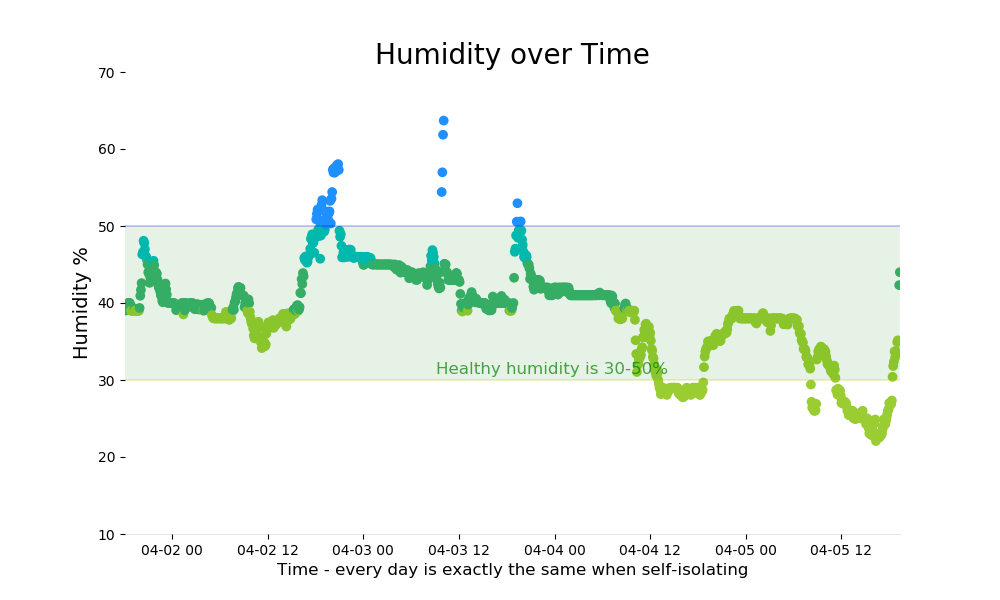
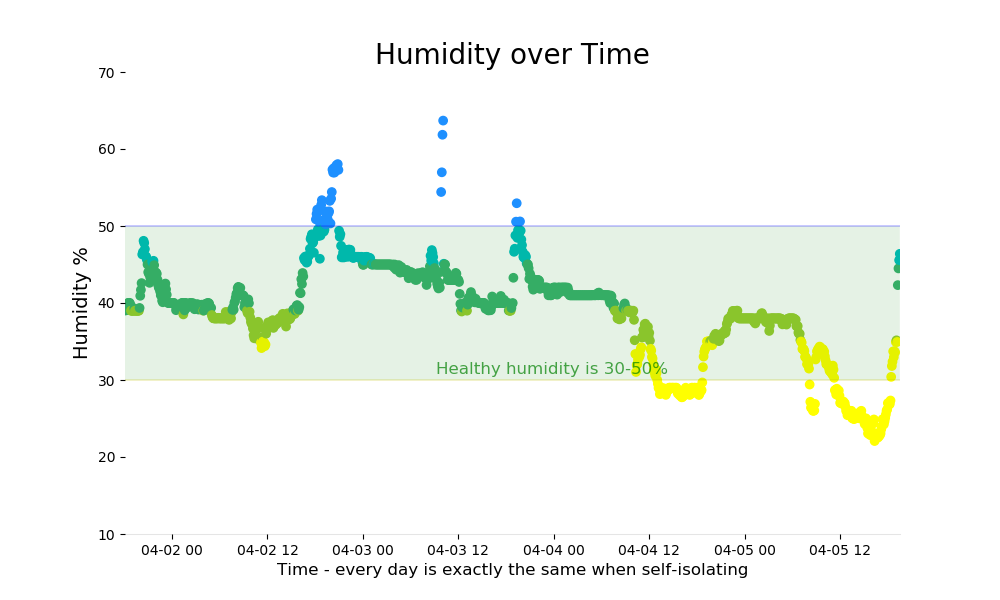
Added yellow colour.

diff --git a/humidity/webapp/Humidity.py b/humidity/webapp/Humidity.py
@@ -34,7 +34,8 @@ def generate_image():
   import numpy as np
   colors = np.where(df["humidity"] > 50, 'dodgerblue', 
          (np.where(df["humidity"] > 45, 'c',
-                   (np.where(df["humidity"] > 39, 'mediumseagreen', 'yellowgreen')))))
+                   (np.where(df["humidity"] > 39, 'mediumseagreen',
+                       (np.where(df['humidity'] > 35, 'yellowgreen', 'yellow')))))))
 
   fig, ax = plt.subplots(1, figsize=(10,6))
   #plt.switch_backend('Agg')
